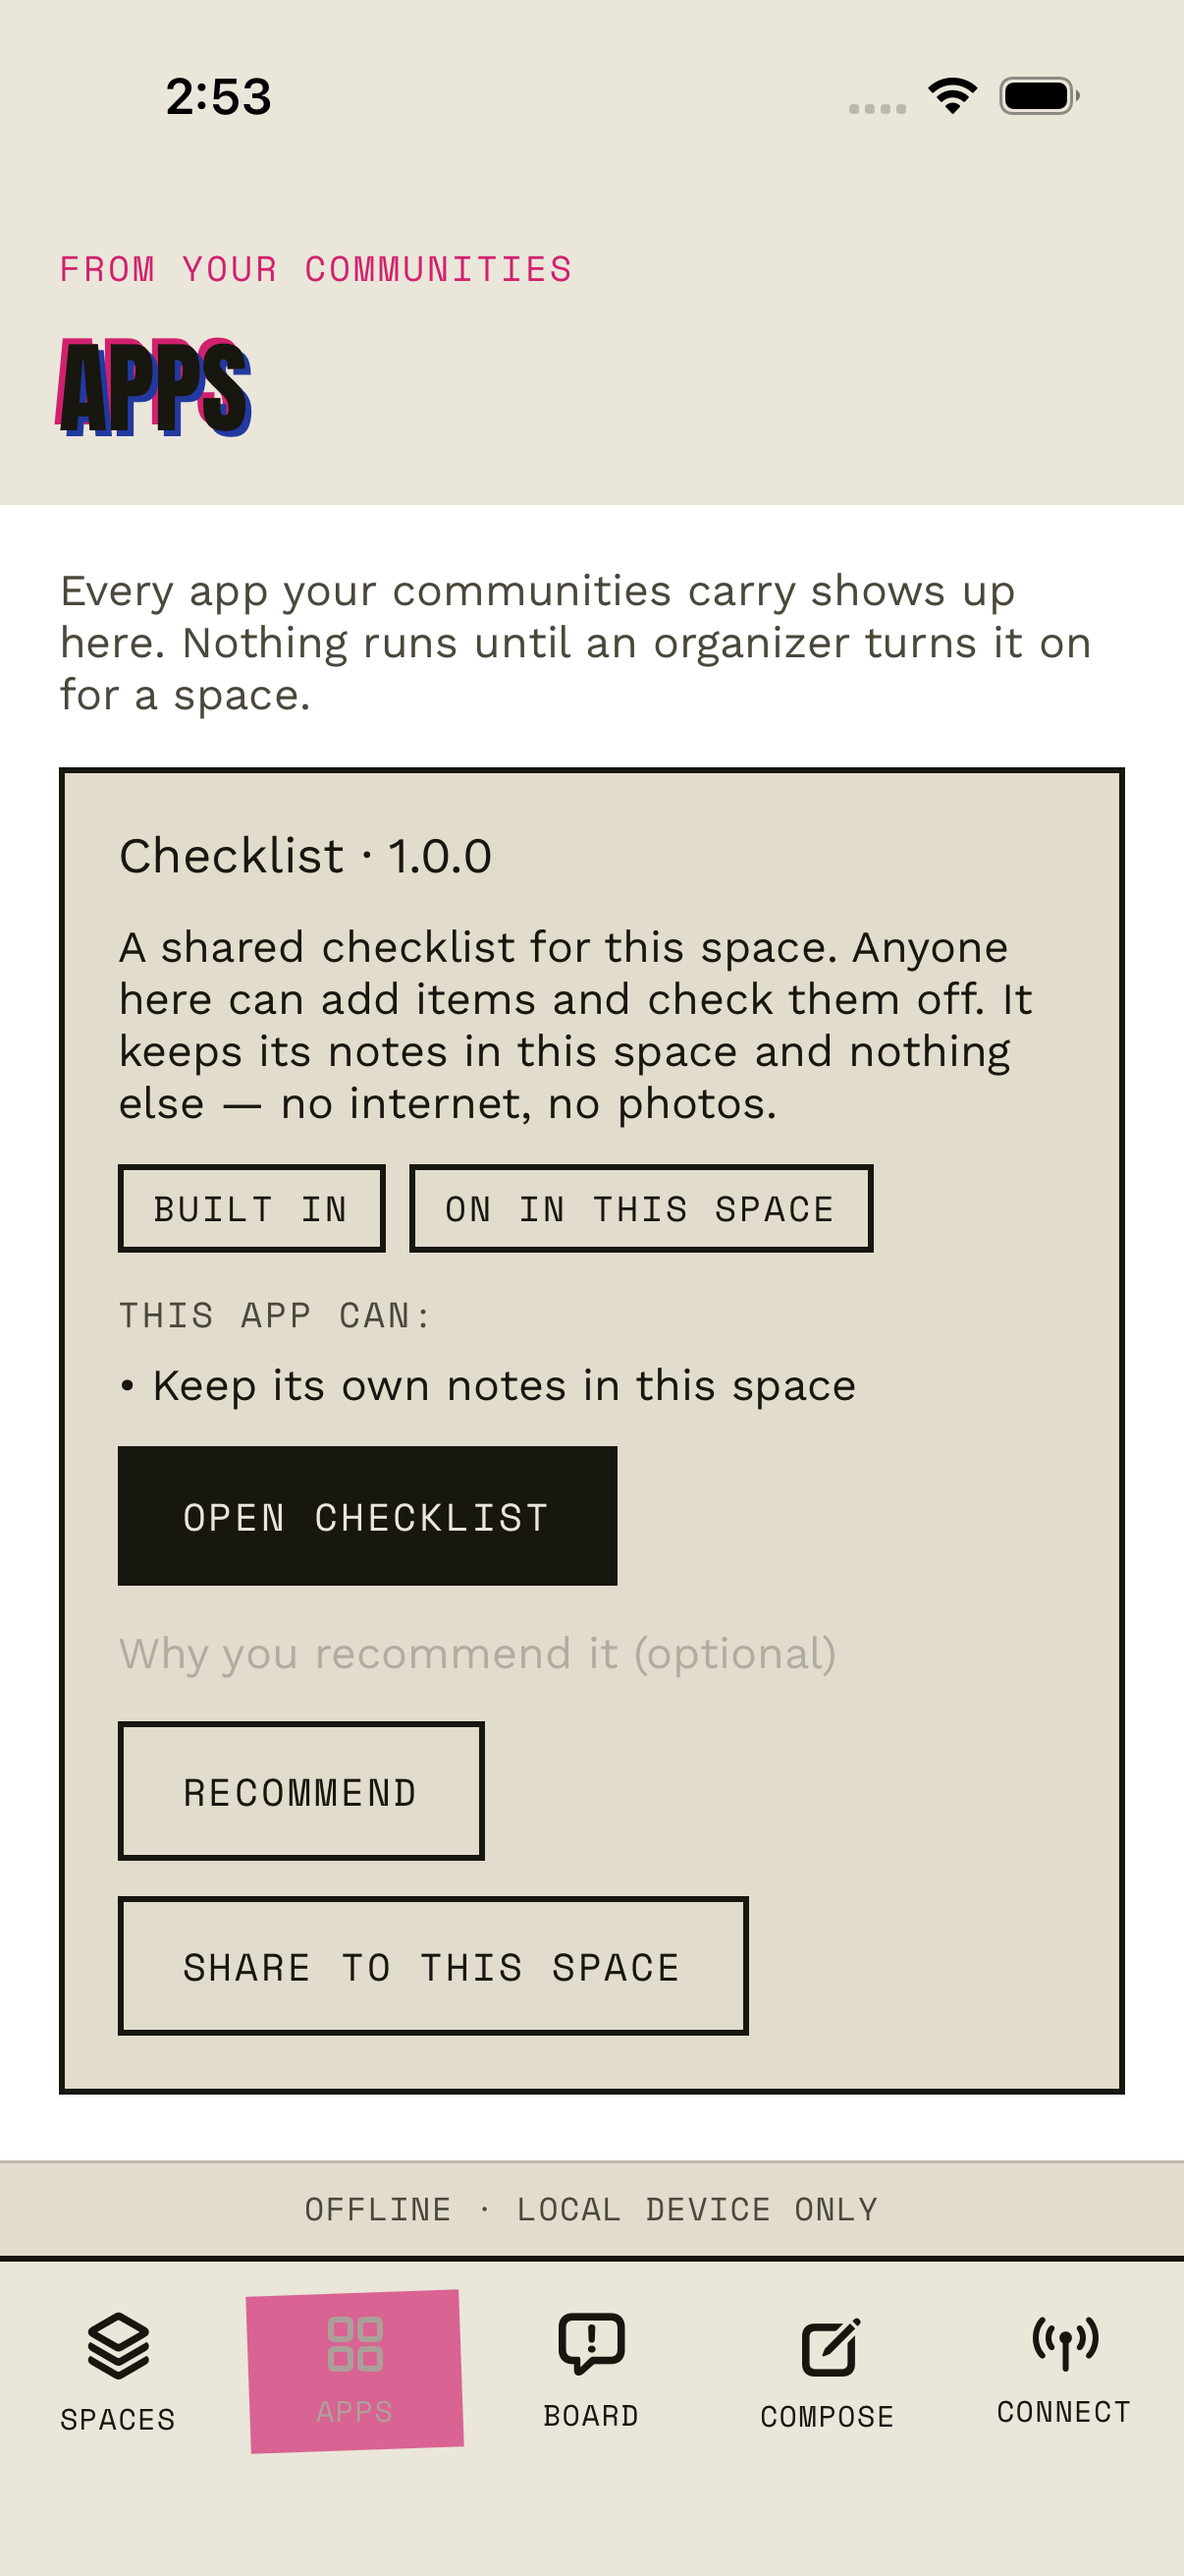
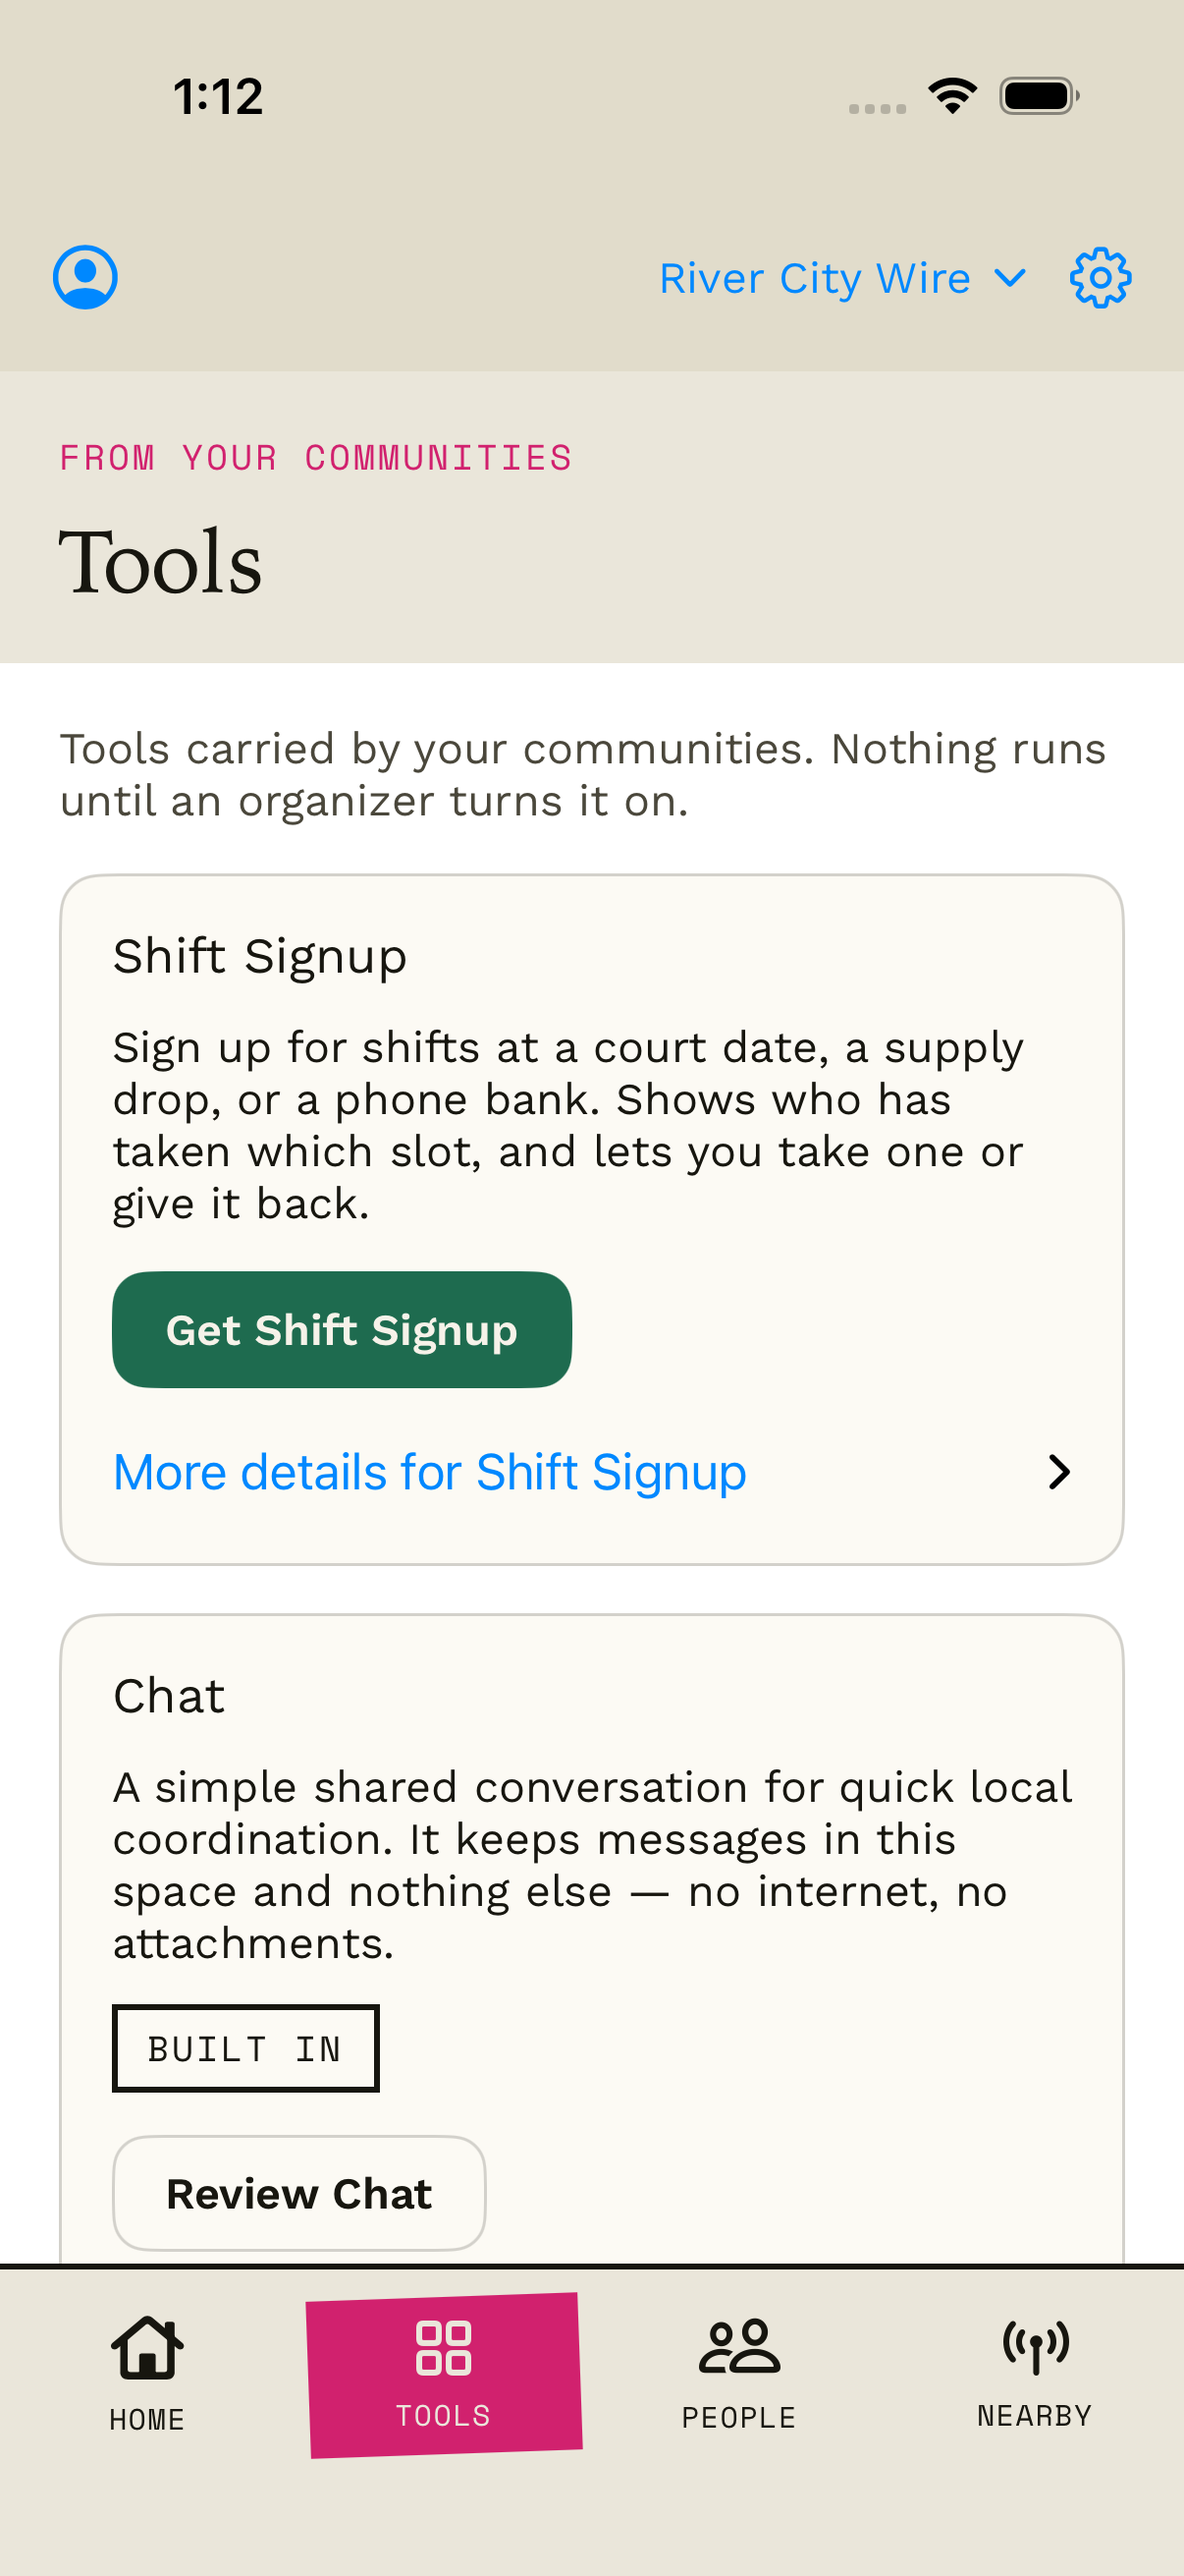
feat(marketing): refresh homepage iPhone screenshots to the current app UI (#125)
The homepage hero device shots showed the old Spaces/Apps/Board/Compose/Connect
nav. The app now uses a Home/Tools/People/Nearby tab bar, so the pinned iPhone
screenshots were stale. Recapture them from the current build's Riverside demo
space (real content, current nav), 1206x2622 to match the existing slots:

- spaces.png    <- Home: "What's happening" + the community's tools
- apps.png      <- Tools: organizer-approved community tools (Shift Signup, Chat)
- compose.png   <- Post an update: typed Update/Alert/Request compose
- checklist.png <- Nearby: syncing River City Wire over Bluetooth/local network
  (alt text updated to match; the old "shared checklist" image no longer exists)

Source and public mirrors stay byte-identical; the marketing contract gate and
9 marketing tests pass. The desktop app-*.png gallery (1362x1870) is a separate
macOS set and is unchanged here.

Captured via a new, repeatable RiotUITests/testCaptureMarketingScreens: it
onboards, loads the Riverside demo, and snapshots each surface as a keep-always
attachment for export from the result bundle.

diff --git a/apps/ios/RiotUITests/RiotTabNavigationUITests.swift b/apps/ios/RiotUITests/RiotTabNavigationUITests.swift
@@ -199,6 +199,90 @@ final class RiotTabNavigationUITests: XCTestCase {
         XCTAssertTrue(element.isHittable)
     }
 
+    /// Captures the current-nav marketing screenshots from the populated Riverside
+    /// demo space. Not an assertion-heavy flow test — its job is to drive the app
+    /// into each primary surface and snapshot it so the website's device mockups
+    /// show the real, current UI. Run with:
+    ///   xcodebuild test -only-testing:RiotUITests/RiotTabNavigationUITests/testCaptureMarketingScreens
+    /// then export the .keepAlways attachments from the result bundle.
+    func testCaptureMarketingScreens() {
+        continueAfterFailure = true
+        app = XCUIApplication()
+        app.launchEnvironment["RIOT_UI_TEST_RUN_ID"] = UUID().uuidString
+        app.launchEnvironment["RIOT_UI_TEST_SUPPRESS_NOTIFICATION_PERMISSION"] = "1"
+        app.launchEnvironment["RIOT_UI_TEST_DISABLE_NEARBY_AUTOSTART"] = "1"
+        app.launch()
+
+        // Welcome -> Get started.
+        let getStarted = app.buttons["onboarding-get-started"]
+        XCTAssertTrue(getStarted.waitForExistence(timeout: 12), "onboarding did not appear")
+        getStarted.tap()
+
+        // Name yourself, then load the populated Riverside demo space so every
+        // surface has real content instead of an empty first-run state.
+        let displayName = app.textFields["launch-display-name"]
+        XCTAssertTrue(displayName.waitForExistence(timeout: 8))
+        displayName.tap()
+        displayName.typeText("Ana")
+
+        let demo = app.buttons["demo-load"]
+        XCTAssertTrue(demo.waitForExistence(timeout: 8), "the Riverside demo action is missing")
+        demo.tap()
+
+        // Land on Home with the demo wire populated.
+        let home = app.buttons["Home"]
+        XCTAssertTrue(home.waitForExistence(timeout: 20), "did not reach the tab bar after loading the demo")
+        sleep(3) // let the wire + sync status settle before the first frame
+        capture("hero-home")
+
+        // A shared checklist running inside a tool — captured from the first
+        // community's Home before any tab switch, where the Checklist tool lives.
+        let checklistTool = app.buttons["Checklist"]
+        if checklistTool.waitForExistence(timeout: 4) {
+            checklistTool.tap()
+            sleep(2)
+            capture("hero-checklist")
+            app.buttons["Home"].tap()
+            sleep(1)
+        }
+
+        for tab in ["Tools", "People", "Nearby"] {
+            let button = app.buttons[tab]
+            if button.waitForExistence(timeout: 6) {
+                button.tap()
+                sleep(2)
+                capture("hero-\(tab.lowercased())")
+            }
+        }
+
+        // Back to Home for the two thumbnail surfaces the site pins: compose and
+        // a tool detail.
+        app.buttons["Home"].tap()
+        sleep(1)
+
+        // Compose: the "Post an update" action opens the typed compose sheet.
+        let post = app.buttons["home-post-update"]
+        if post.waitForExistence(timeout: 6) {
+            post.tap()
+            sleep(2)
+            capture("hero-compose")
+            // Dismiss the sheet so the tool capture starts from Home.
+            let cancel = app.buttons["Cancel"]
+            if cancel.exists { cancel.tap() } else { app.swipeDown() }
+            sleep(1)
+        }
+
+        // A tool detail: open the first Home tool shortcut (Checklist et al.).
+        let toolShortcut = app.buttons
+            .matching(NSPredicate(format: "identifier BEGINSWITH 'home-shortcut-'"))
+            .firstMatch
+        if toolShortcut.waitForExistence(timeout: 6) {
+            toolShortcut.tap()
+            sleep(2)
+            capture("hero-checklist")
+        }
+    }
+
     private func capture(_ name: String) {
         let attachment = XCTAttachment(screenshot: app.screenshot())
         attachment.name = name

diff --git a/marketing/index.html b/marketing/index.html
@@ -740,7 +740,7 @@ footer.colophon .footer-links a:hover { text-decoration: underline; text-decorat
           <img src="/assets/screenshots/compose.png" width="1206" height="2622" alt="Composing a message in Riot">
         </figure>
         <figure class="phone-frame thumb">
-          <img src="/assets/screenshots/checklist.png" width="1206" height="2622" alt="A shared checklist running inside Riot">
+          <img src="/assets/screenshots/checklist.png" width="1206" height="2622" alt="Riot's Nearby screen syncing a community over Bluetooth or local network">
         </figure>
       </div>
       <span class="proof-tag">Real app screens<br>from the iPhone simulator build</span>

diff --git a/marketing/public/index.html b/marketing/public/index.html
@@ -740,7 +740,7 @@ footer.colophon .footer-links a:hover { text-decoration: underline; text-decorat
           <img src="/assets/screenshots/compose.png" width="1206" height="2622" alt="Composing a message in Riot">
         </figure>
         <figure class="phone-frame thumb">
-          <img src="/assets/screenshots/checklist.png" width="1206" height="2622" alt="A shared checklist running inside Riot">
+          <img src="/assets/screenshots/checklist.png" width="1206" height="2622" alt="Riot's Nearby screen syncing a community over Bluetooth or local network">
         </figure>
       </div>
       <span class="proof-tag">Real app screens<br>from the iPhone simulator build</span>
